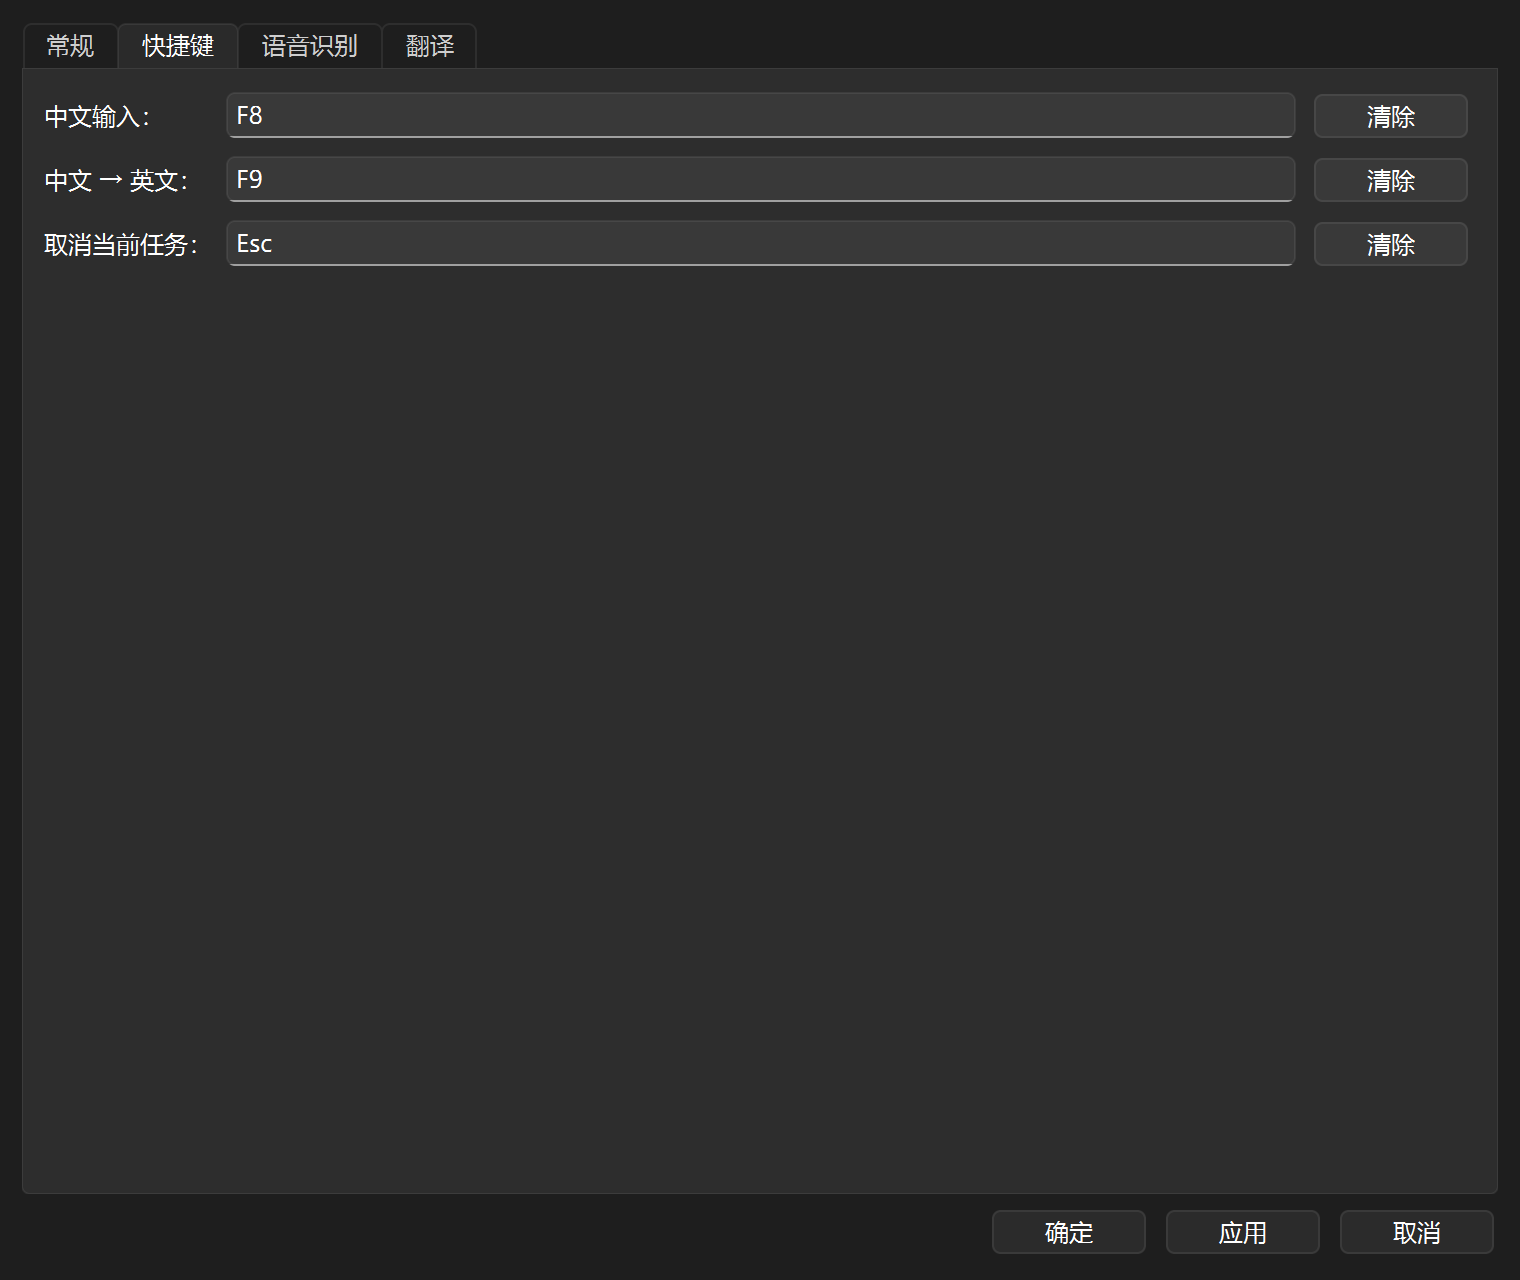
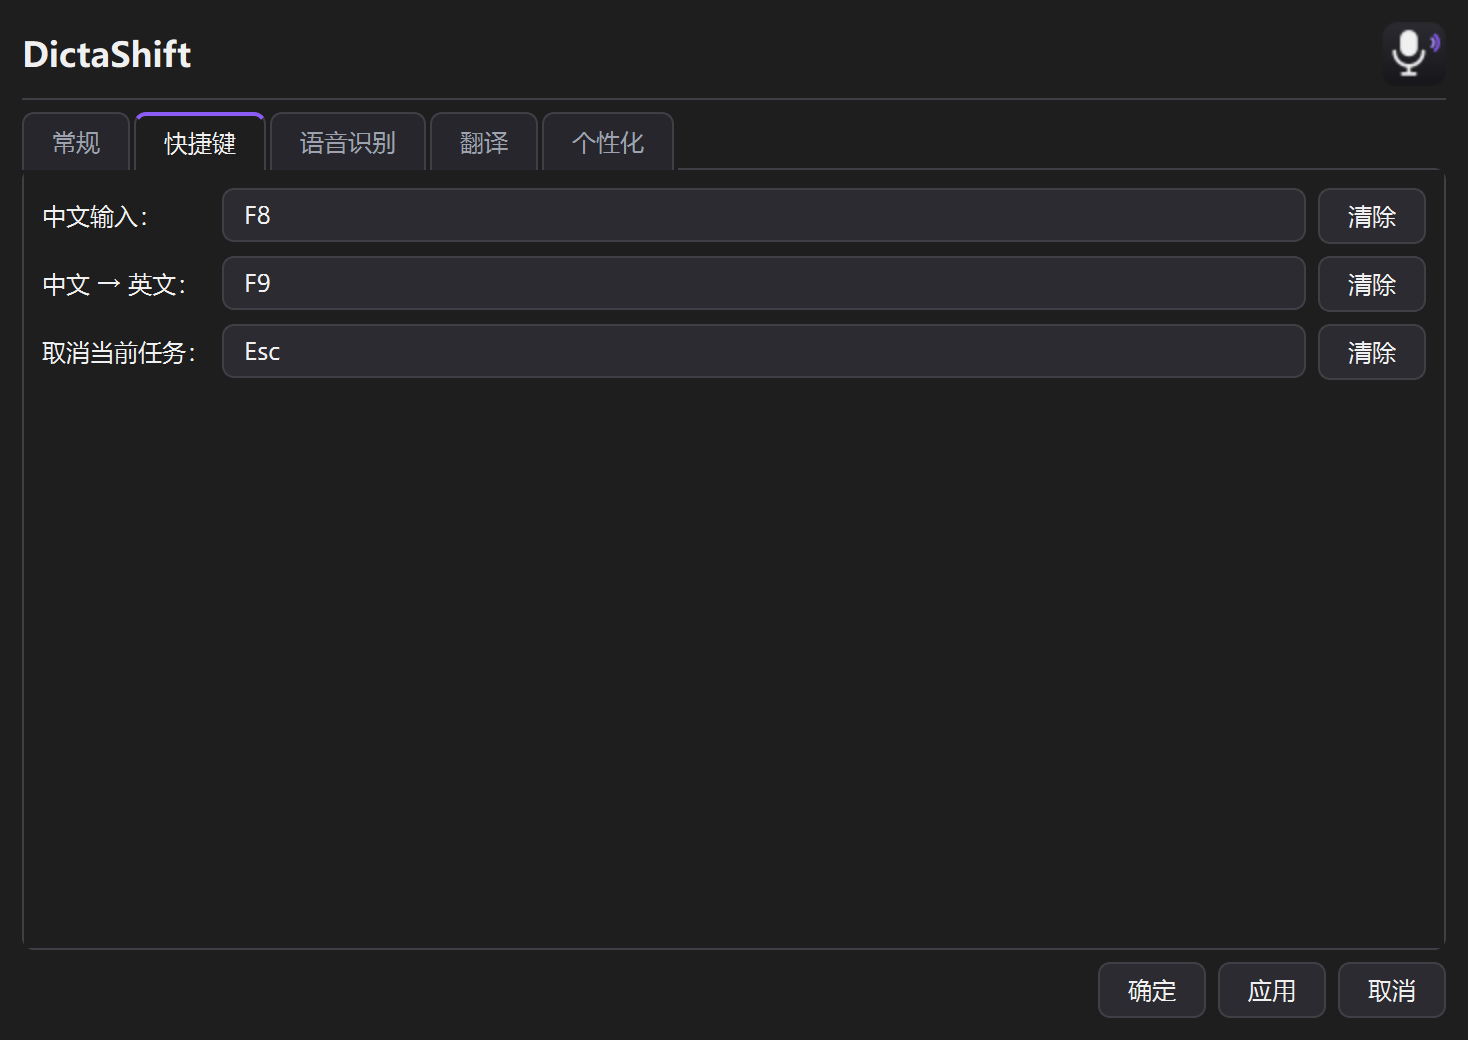
docs: 重截全部界面截图（新增个性化页与改写中状态）并补全 README 预览引用

diff --git a/scripts/capture_screenshots.py b/scripts/capture_screenshots.py
@@ -1,0 +1,141 @@
+"""重截 README 界面截图（docs/images/），可重复执行。
+
+用法：``uv run python scripts/capture_screenshots.py``
+
+注意：
+- **不要**设置 QT_QPA_PLATFORM=offscreen（offscreen 渲染不了 CJK 字体，会变方框）；
+  使用 Windows 原生平台真实渲染，窗口会短暂显示在屏幕上，属正常现象。
+- 不触碰用户真实配置：设置窗口直接用内存中的 AppSettings demo 数据构造，
+  不经过 SettingsRepository / %APPDATA%。
+
+通用模式：QApplication → 构造控件 → 设置演示状态 → show() → QTest.qWait
+→ widget.grab().save(png) → close。
+"""
+
+from __future__ import annotations
+
+import sys
+from pathlib import Path
+
+from PySide6.QtTest import QTest
+from PySide6.QtWidgets import QApplication
+
+REPO_ROOT = Path(__file__).resolve().parents[1]
+IMAGES_DIR = REPO_ROOT / "docs" / "images"
+
+# 悬浮窗结果态示例文本（与旧图同款文案）。
+_OVERLAY_RESULT_TEXT = "直输失败时的结果文本会直接替换状态文字，点击卡片任意处即可复制。"
+# 右下角弹窗示例文本（与旧图同款文案）。
+_POPUP_RESULT_TEXT = (
+    "这是一次语音识别的结果文本。直输失败时会弹出此卡片，"
+    "点击「复制」按钮将文本写入剪贴板。"
+)
+
+
+def _grab(widget, name: str) -> None:
+    """grab 当前控件并保存为 PNG 到 docs/images/。"""
+    path = IMAGES_DIR / name
+    pm = widget.grab()
+    if pm.isNull():
+        raise RuntimeError(f"grab 失败：{name}")
+    pm.save(str(path), "PNG")
+    print(f"[ok] {name}: {pm.width()}x{pm.height()}")
+
+
+def _build_demo_settings():
+    """构造演示用 AppSettings（纯内存，不落盘）。
+
+    - 翻译页：一个用户 LLM 档案（本地 llama-server 预设）并置为活动档案，
+      使编辑区有代表性内容。
+    - 个性化页：启用句尾后缀「喵」+ 语气改写选中「傲娇」。
+    """
+    from dictashift.settings import AppSettings
+    from dictashift.translation import TranslationProfile
+
+    s = AppSettings()
+    s.translation.profiles = [
+        TranslationProfile(
+            name="本地 llama-server",
+            base_url="http://127.0.0.1:19120/v1",
+            model="qwen2.5-7b-instruct",
+        ),
+    ]
+    s.translation.active_profile = "本地 llama-server"
+    s.personalize.suffix_enabled = True
+    s.personalize.suffix_text = "喵"
+    s.personalize.rewrite_style = "tsundere"
+    return s
+
+
+def capture_settings_tabs() -> None:
+    """设置窗口 5 个 tab 各截一张。"""
+    from dictashift.ui.settings_window import SettingsWindow
+
+    win = SettingsWindow()
+    win.load_from_settings(_build_demo_settings())
+    win.show()
+    QTest.qWait(300)
+    names = [
+        "settings-general.png",
+        "settings-hotkeys.png",
+        "settings-asr.png",
+        "settings-translation.png",
+        "settings-personalize.png",
+    ]
+    for index, name in enumerate(names):
+        win._tabs.setCurrentIndex(index)
+        QTest.qWait(150)
+        _grab(win, name)
+    win.close()
+
+
+def capture_overlays() -> None:
+    """悬浮窗 4 种状态各截一张（每种状态用全新窗口，避免状态互相污染）。"""
+    from dictashift.core.state import AppState
+    from dictashift.ui.overlay import StateOverlay
+
+    states = [
+        (AppState.PREPARING, "overlay-preparing.png"),
+        (AppState.RECORDING, "overlay-recording.png"),
+        (AppState.REWRITING, "overlay-rewriting.png"),
+    ]
+    for state, name in states:
+        overlay = StateOverlay()
+        overlay.set_state(state)
+        overlay.show()
+        QTest.qWait(200)
+        _grab(overlay, name)
+        overlay.close()
+
+    overlay = StateOverlay()
+    overlay.show_result(_OVERLAY_RESULT_TEXT)
+    overlay.show()
+    QTest.qWait(200)
+    _grab(overlay, "overlay-result.png")
+    overlay.close()
+
+
+def capture_result_popup() -> None:
+    """右下角结果弹窗（带示例文本）。"""
+    from dictashift.ui.result_popup import ResultPopup
+
+    popup = ResultPopup()
+    popup.show_result(_POPUP_RESULT_TEXT)
+    QTest.qWait(200)
+    _grab(popup, "result-popup.png")
+    popup.close()
+
+
+def main() -> int:
+    app = QApplication.instance() or QApplication(sys.argv)
+    IMAGES_DIR.mkdir(parents=True, exist_ok=True)
+    capture_settings_tabs()
+    capture_overlays()
+    capture_result_popup()
+    app.quit()
+    print("全部截图完成 ->", IMAGES_DIR)
+    return 0
+
+
+if __name__ == "__main__":
+    raise SystemExit(main())

diff --git a/README.md b/README.md
@@ -44,10 +44,19 @@
 <img src="docs/images/settings-translation.png" width="640" alt="翻译设置">
 <br/><em>翻译设置：内置免登录服务与 OpenAI 兼容配置平级选择</em>
 <br/><br/>
+<img src="docs/images/settings-general.png" width="318" alt="常规设置">&nbsp;&nbsp;
+<img src="docs/images/settings-hotkeys.png" width="318" alt="快捷键设置">
+<br/><em>常规：结果展示方式与一键清除数据；快捷键：全部热键可自定义</em>
+<br/><br/>
+<img src="docs/images/settings-asr.png" width="318" alt="语音识别设置">&nbsp;&nbsp;
+<img src="docs/images/settings-personalize.png" width="318" alt="个性化设置">
+<br/><em>语音识别：模型一键下载与麦克风选择；个性化：句尾后缀与语气改写（关闭/毒舌/傲娇）</em>
+<br/><br/>
 <img src="docs/images/overlay-preparing.png" alt="准备中">&nbsp;&nbsp;
 <img src="docs/images/overlay-recording.png" alt="录音中">&nbsp;&nbsp;
+<img src="docs/images/overlay-rewriting.png" alt="改写中">&nbsp;&nbsp;
 <img src="docs/images/overlay-result.png" width="305" alt="结果悬浮窗">
-<br/><em>状态悬浮窗：◌ 准备中（橙，麦克风预热）→ ● 录音中（红，真正在收音）；直输失败时结果直接替换状态文字，点击卡片即复制</em>
+<br/><em>状态悬浮窗：◌ 准备中（橙，麦克风预热）→ ● 录音中（红，真正在收音）→ 改写中（紫，语气改写）；直输失败时结果直接替换状态文字，点击卡片即复制</em>
 <br/><br/>
 <img src="docs/images/result-popup.png" width="360" alt="结果弹窗">
 <br/><em>右下角结果弹窗（直输失败时弹出，点击「复制」才写入剪贴板）</em>
